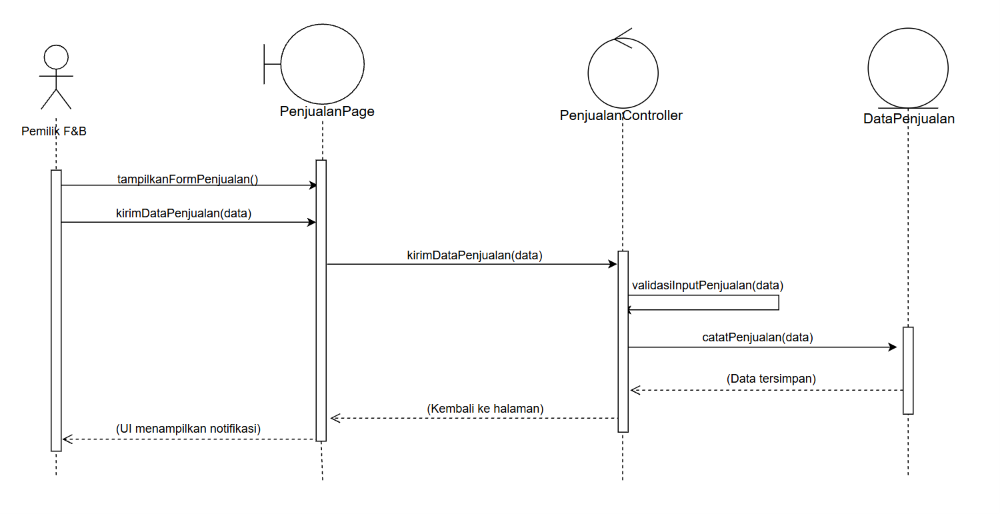
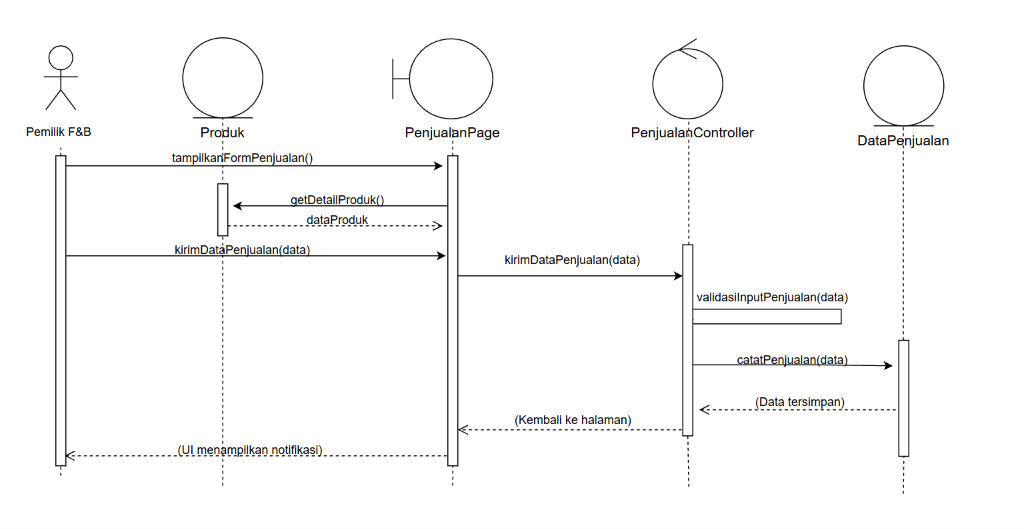
docs: add content 5.1 - 5.6 and fix sequence diagram

diff --git a/docs/M8/K03_G08_DPPL2.md b/docs/M8/K03_G08_DPPL2.md
@@ -882,9 +882,371 @@ Tabel 5.1.1. Query Operasi [Nama Operasi]
 
 *[Ulangi pola 5.1.1 untuk operasi penting berikutnya pada kelas yang sama, jika ada.]*
 
-## 5.2 Kelas [Nama Kelas Berikutnya]
+## 5.1 Kelas AkunPengguna
 
-*[Ulangi pola 5.1: nama dan ID kelas, tabel operasi, tabel atribut, serta subbab algoritma/query untuk operasi penting jika diperlukan.]*
+**Nama Kelas:** *AkunPengguna*  
+**ID Kelas:** *C01*
+
+Tabel 5.1.1. Operasi Kelas AkunPengguna
+
+| Nama Operasi | Visibility (private, public) | Keterangan |
+| :--- | :--- | :--- |
+| *registrasi(dataForm: Object): Number* | *Public* | *Membuat akun baru dari data formulir registrasi (email, kata sandi, tipe akun) dan mengembalikan idAkun* |
+
+Tabel 5.1.2. Atribut Kelas AkunPengguna
+
+| Nama Atribut | Visibility (private, public) | Tipe |
+| :--- | :--- | :--- |
+| *idAkun* | *Private* | *Number* |
+| *email* | *Private* | *String* |
+| *kataSandi* | *Private* | *String* |
+| *tipeAkun* | *Private* | *String* |
+
+### 5.1.1 Algoritma/Query
+
+**Nama Kelas:** *AkunPengguna*  
+**Nama Operasi:** *registrasi(dataForm: Object): Number*  
+**ID Algoritma:** *Algo-001*
+
+```text
+FUNCTION registrasi(dataForm)
+    kataSandiHash <- HASH(kata sandi dari dataForm)
+    idAkun <- JALANKAN Q-001 dengan (email dari dataForm, kataSandiHash, tipeAkun)
+    RETURN idAkun
+END FUNCTION
+```
+
+Tabel 5.1.1. Query Operasi registrasi()
+
+| No Query | Query | Keterangan |
+| :--- | :--- | :--- |
+| *Q-001* | *INSERT INTO akun_pengguna(email, kata_sandi, tipe_akun) VALUES ($1, $2, $3) RETURNING id_akun;* | *Menyimpan data akun pengguna baru ke tabel akun_pengguna di PostgreSQL dan mengembalikan id_akun yang dibuat.* |
+
+## 5.2 Kelas Pendaftaran
+
+**Nama Kelas:** *Pendaftaran*  
+**ID Kelas:** *C02*
+
+Tabel 5.2.1. Operasi Kelas Pendaftaran
+
+| Nama Operasi | Visibility (private, public) | Keterangan |
+| :--- | :--- | :--- |
+| *ajukanPendaftaran(idAkun: Number): Number* | *Public* | *Membuat catatan pendaftaran untuk akun yang baru terbentuk  dan mengembalikan idPendaftaran* |
+| *getDaftarMenungguVerifikasi(): Array* | *Public* | *Mengambil daftar pendaftaran yang berstatus "menunggu verifikasi" untuk ditampilkan ke admin sistem* |
+| *getDetailPendaftar(idPendaftaran: Number): Object* | *Public* | *Mengambil data detil dari satu pendaftar* |
+| *updateStatus(idPendaftaran: Number, status: String): void* | *Public* | *Memperbarui statusVerifikasi pendaftaran menjadi "diterima" atau "ditolak"* |
+| *getStatus(): String* | *Public* | *Mengembalikan statusVerifikasi* |
+
+Tabel 5.2.2. Atribut Kelas Pendaftaran 
+
+| Nama Atribut | Visibility (private, public) | Tipe |
+| :--- | :--- | :--- |
+| *idPendaftaran* | *Private* | *Number* |
+| *tanggalDaftar* | *Private* | *Date* |
+| *statusVerifikasi* | *Private* | *String* |
+### 5.2.1 Algoritma/Query
+
+**Nama Kelas:** *Pendaftaran*  
+**Nama Operasi:** *ajukanPendaftaran(idAkun: Number): Number*  
+**ID Algoritma:** *Algo-002*
+
+```text
+FUNCTION ajukanPendaftaran(idAkun)
+    idPendaftaran <- JALANKAN Q-002 dengan (idAkun)
+    RETURN idPendaftaran
+END FUNCTION
+```
+
+Tabel 5.2.3. Query Operasi ajukanPendaftaran()
+
+| No Query | Query | Keterangan |
+| :--- | :--- | :--- |
+| *Q-002* | *INSERT INTO pendaftaran(id_akun, tanggal_daftar, status_verifikasi) VALUES ($1, CURRENT_DATE, 'menunggu verifikasi) RETURNING id_pendaftaran;* | *Meyimpan pendaftaran baru dengan tanggal hari ini dan status awal "menunggu verifikasi", lalu mengembalikan idPendaftaran* |
+
+### 5.2.2 Algoritma/Query
+
+**Nama Kelas:** *Pendaftaran*  
+**Nama Operasi:** *getDaftarMenungguVerifikasi(): Array*  
+**ID Algoritma:** *Algo-003*
+
+```text
+FUNCTION getDaftarMenungguVerifikasi()
+    daftarPendaftar <- JALANKAN Q-003
+    RETURN daftarPendaftar
+END FUNCTION
+```
+Tabel 5.2.4. Query Operasi getDaftarMenungguVerifikasi()
+
+| No Query | Query | Keterangan |
+| :--- | :--- | :--- |
+| *Q-003* | *SELECT id_pendaftaran, id_akun, tanggal_daftar, status_verifikasi FROM pendaftaran WHERE status_verifikasi = 'menunggu verifikasi';* | *Mengambil seluruh pendaftaran yang masih menunggu untuk verifikasi* |
+
+### 5.2.3 Algoritma/Query
+
+**Nama Kelas:** *Pendaftaran*  
+**Nama Operasi:** *getDetailPendaftar(idPendaftaran: Number): Object*  
+**ID Algoritma:** *Algo-004*
+
+```text
+FUNCTION getDetailPendaftar(idPendaftaran)
+    dataPendaftar <- JALANKAN Q-004 dengan (idPendaftaran)
+    RETURN dataPendaftar
+END FUNCTION
+```
+
+Tabel 5.2.5. Query Operasi getDetailPendaftar()
+
+| No Query | Query | Keterangan |
+| :--- | :--- | :--- |
+| *Q-004* | *SELECT id_pendaftaran, id_akun, tanggal_daftar, status_verifikasi FROM pendaftaran WHERE id_pendaftaran = $1;* | *Mengambil data satu pendaftaran berdasarkan id_pendaftaran. $1 = idPendaftaran.* |
+
+### 5.2.4 Algoritma/Query
+
+**Nama Kelas:** *Pendaftaran*  
+**Nama Operasi:** *updateStatus(idPendaftaran: Number, status: String): void*  
+**ID Algoritma:** *Algo-005*
+
+```text
+PROCEDURE updateStatus(idPendaftaran, status)
+    JALANKAN Q-004 dengan (status, idPendaftaran)
+END PROCEDURE
+```
+Tabel 5.2.6. Query Operasi updateStatus()
+
+| No Query | Query | Keterangan |
+| :--- | :--- | :--- |
+| *Q-005* | *UPDATE pendaftaran SET status_verifikasi = $1 WHERE id_pendaftaran = $2;* | *Memperbarui statue verifikasi menjadi "diterima" atau "ditolak"* |
+
+### 5.2.5 Algoritma/Query
+
+**Nama Kelas:** *Pendaftaran*  
+**Nama Operasi:** *getStatus(): String*  
+**ID Algoritma:** *Algo-006*
+
+```text
+FUNCTION getStatus()
+    statusVerifikasi <- JALANKAN Q-006 dengan (idPendaftaran milik objek)
+    RETURN statusVerifikasi
+END FUNCTION
+```
+Tabel 5.2.7. Query Operasi getStatus()
+
+| No Query | Query | Keterangan |
+| :--- | :--- | :--- |
+| *Q-006* | *SELECT status_verifikasi FROM pendaftaran WHERE id_pendaftaran = $1;* | *Mengambil status verifikasi dari pendaftaran* |
+
+## 5.3 Kelas DokumenPendukung
+
+**Nama Kelas:** *DokumenPendukung*  
+**ID Kelas:** *C03*
+
+Tabel 5.3.1. Operasi Kelas DokumenPendukung
+
+| Nama Operasi | Visibility (private, public) | Keterangan |
+| :--- | :--- | :--- |
+| *unggahDokumen(idPendaftaran: Number, berkas: Object): void* | *Public* | *Menyimpan berkas dokumen pendukung milik sebuah pendaftar* |
+| *getDokumen(idPendaftaran: Number): Array* | *Public* | *Mengambil dokumen pendukung milik satu pendaftar* |
+
+Tabel 5.3.2. Atribut Kelas DokumenPendukung
+
+| Nama Atribut | Visibility (private, public) | Tipe |
+| :--- | :--- | :--- |
+| *idDokumen* | *Private* | *Number* |
+| *namaFile* | *Private* | *String* |
+| *tipeDokumen* | *Private* | *String* |
+
+### 5.3.1 Algoritma/Query
+
+**Nama Kelas:** *DokumenPendukung*  
+**Nama Operasi:** *unggahDokumen(idPendaftaran: Number, berkas: Object): void*  
+**ID Algoritma:** *Algo-007*
+
+```text
+PROCEDURE unggahDokumen(idPendaftaran, berkas)
+    namaFile <- SIMPAN berkas ke folder penyimpanan dokumen di server
+    tipeDokumen <- tipe berkas (PDF, JPG, atau PNG)
+    JALANKAN Q-007 dengan (idPendaftaran, namaFile, tipeDokumen)
+END PROCEDURE
+```
+
+Tabel 5.3.3. Query Operasi unggahDokumen()
+
+| No Query | Query | Keterangan |
+| :--- | :--- | :--- |
+| *Q-007* | *INSERT INTO dokumen_pendukung(id_pendaftaran, nama_file, tipe_dokumen) VALUES ($1, $2, $3);* | *Menyimpan data dokumen pendukung ke dalam tabel dokumen_pendukung* |
+
+### 5.3.2 Algoritma/Query
+
+**Nama Kelas:** *DokumenPendukung*  
+**Nama Operasi:** *getDokumen(idPendaftaran: Number): Array*  
+**ID Algoritma:** *Algo-008*
+
+```text
+FUNCTION getDokumen(idPendaftaran)
+    daftarDokumen <- JALANKAN Q-008 dengan (idPendaftaran)
+    RETURN daftarDokumen
+END FUNCTION
+```
+
+Tabel 5.3.4. Query Operasi getDokumen()
+
+| No Query | Query | Keterangan |
+| :--- | :--- | :--- |
+| *Q-008* | *SELECT id_dokumen, nama_file, tipe_dokumen FROM dokumen_pendukung WHERE id_pendaftaran = $1;* | *Mengambil data dokumen pendukung milik satu pendaftar* |
+
+## 5.4 Kelas VerifikasiController
+
+**Nama Kelas:** *VerifikasiController*  
+**ID Kelas:** *C04*
+
+Tabel 5.4.1. Operasi Kelas VerifikasiController
+
+| Nama Operasi | Visibility (private, public) | Keterangan |
+| :--- | :--- | :--- |
+| *tampilkanDaftarPendaftar(): Array* | *Public* | *Meminta daftar dari pendaftar yang berstatus "menunggu verifikasi"* |
+| *ambilDetailPendaftar(idPendaftaran: Number): Object* | *Public* | *Mengambil data pendaftar dan dokumen* |
+| *prosesVerifikasi(idPendaftaran: Number, keputusan: String): String* | *Public* | *Meneruskan keputusan admin sistem terkait status pendaftaran* |
+
+Tabel 5.4.2. Atribut Kelas VerifikasiController
+
+| Nama Atribut | Visibility (private, public) | Tipe |
+| :--- | :--- | :--- |
+| *-* | *-* | *-* |
+
+
+### 5.4.1 Algoritma/Query
+
+**Nama Kelas:** *VerifikasiController*  
+**Nama Operasi:** *tampilkanDaftarPendaftar(): Array*  
+**ID Algoritma:** *Algo-009*
+
+```text
+FUNCTION tampilkanDaftarPendaftar()
+    daftarPendaftar <- getDaftarMenungguVerifikasi() pada Pendaftaran
+    RETURN daftarPendaftar
+END FUNCTION
+```
+
+Tabel 5.4.3. Query Operasi tampilkanDaftarPendaftar()
+
+| No Query | Query | Keterangan |
+| :--- | :--- | :--- |
+| *-* | *-* | *-* |
+
+### 5.4.2 Algoritma/Query
+
+**Nama Kelas:** *VerifikasiController*  
+**Nama Operasi:** *ambilDetailPendaftar(idPendaftaran: Number): Object*  
+**ID Algoritma:** *Algo-010*
+
+```text
+FUNCTION ambilDetailPendaftar(idPendaftaran)
+    dataPendaftar <- getDetailPendaftar(idPendaftaran) pada Pendaftaran
+    daftarDokumen <- getDokumen(idPendaftaran) pada DokumenPendukung
+    detailPendaftar <- GABUNGKAN dataPendaftar dan daftarDokumen
+    RETURN detailPendaftar
+END FUNCTION
+```
+
+Tabel 5.4.4. Query Operasi ambilDetailPendaftar()
+
+| No Query | Query | Keterangan |
+| :--- | :--- | :--- |
+| *-* | *-* | *-* |
+
+### 5.4.3 Algoritma/Query
+
+**Nama Kelas:** *VerifikasiController*  
+**Nama Operasi:** *prosesVerifikasi(idPendaftaran: Number, keputusan: String): String*  
+**ID Algoritma:** *Algo-011*
+
+```text
+FUNCTION prosesVerifikasi(idPendaftaran, keputusan)
+    verifikasiPendaftaran(idPendaftaran, keputusan) pada AdminSistem
+    RETURN pesan status keputusan tersimpan
+END FUNCTION
+```
+
+Tabel 5.4.5. Query Operasi ambilDetailPendaftar()
+
+| No Query | Query | Keterangan |
+| :--- | :--- | :--- |
+| *-* | *-* | *-* |
+
+## 5.5 Kelas Produk
+
+**Nama Kelas:** *Produk*  
+**ID Kelas:** *C05*
+
+Tabel 5.5.1. Operasi Kelas Produk
+
+| Nama Operasi | Visibility (private, public) | Keterangan |
+| :--- | :--- | :--- |
+| *getDetailProduk(): Object* | *Public* | *Mengembalikan data detil milik suatu produk* |
+
+Tabel 5.5.2. Atribut Kelas Produk
+
+| Nama Atribut | Visibility (private, public) | Tipe |
+| :--- | :--- | :--- |
+| *idProduk* | *Public* | *Number* |
+| *namaProduk* | *Public* | *String* |
+| *kategori* | *Public* | *String* |
+
+### 5.5.1 Algoritma/Query
+
+**Nama Kelas:** *Produk*  
+**Nama Operasi:** *getDetailProduk()*  
+**ID Algoritma:** *-*
+
+```text
+-
+```
+
+Tabel 5.5.3. Query Operasi getDetailProduk()
+
+| No Query | Query | Keterangan |
+| :--- | :--- | :--- |
+| *-* | *-* | *-*
+
+## 5.6 Kelas DataPenjualan
+
+**Nama Kelas:** *DataPenjualan*  
+**ID Kelas:** *C06*
+
+Tabel 5.6.1. Operasi Kelas DataPenjualan
+
+| Nama Operasi | Visibility (private, public) | Keterangan |
+| :--- | :--- | :--- |
+| *getDataHistoris(): Array* | *Public* | *Mengambil data historis penjualan untuk dijadikan prediksi* |
+
+Tabel 5.6.2. Atribut Kelas DataPenjualan
+
+| Nama Atribut | Visibility (private, public) | Tipe |
+| :--- | :--- | :--- |
+| *idPenjualan* | *Private* | *Number* |
+| *tanggal* | *Private* | *Date* |
+| *jumlahTerjual* | *Private* | *Number* |
+| *jumlahTersisa* | *Private* | *Number* |
+
+### 5.1.1 Algoritma/Query
+
+**Nama Kelas:** *DataPenjualan*  
+**Nama Operasi:** *getDataHistoris(): Array*  
+**ID Algoritma:** *Algo-012*
+
+```text
+FUNCTION getDataHistoris()
+    dataHistoris <- JALANKAN Q-010
+    RETURN dataHistoris
+END FUNCTION
+``` 
+Tabel 5.6.3. Query Operasi getDataHistoris()
+
+| No Query | Query | Keterangan |
+| :--- | :--- | :--- |
+| *Q-009* | *SELECT tanggal, jumlah_terjual, jumlah_tersisa FROM data_penjualan ORDER BY tanggal DESC LIMIT 7;* | *mengambil data historis hingga 7 hari untuk dijadikan prediksi* |
+
+
 
 <br>
 
